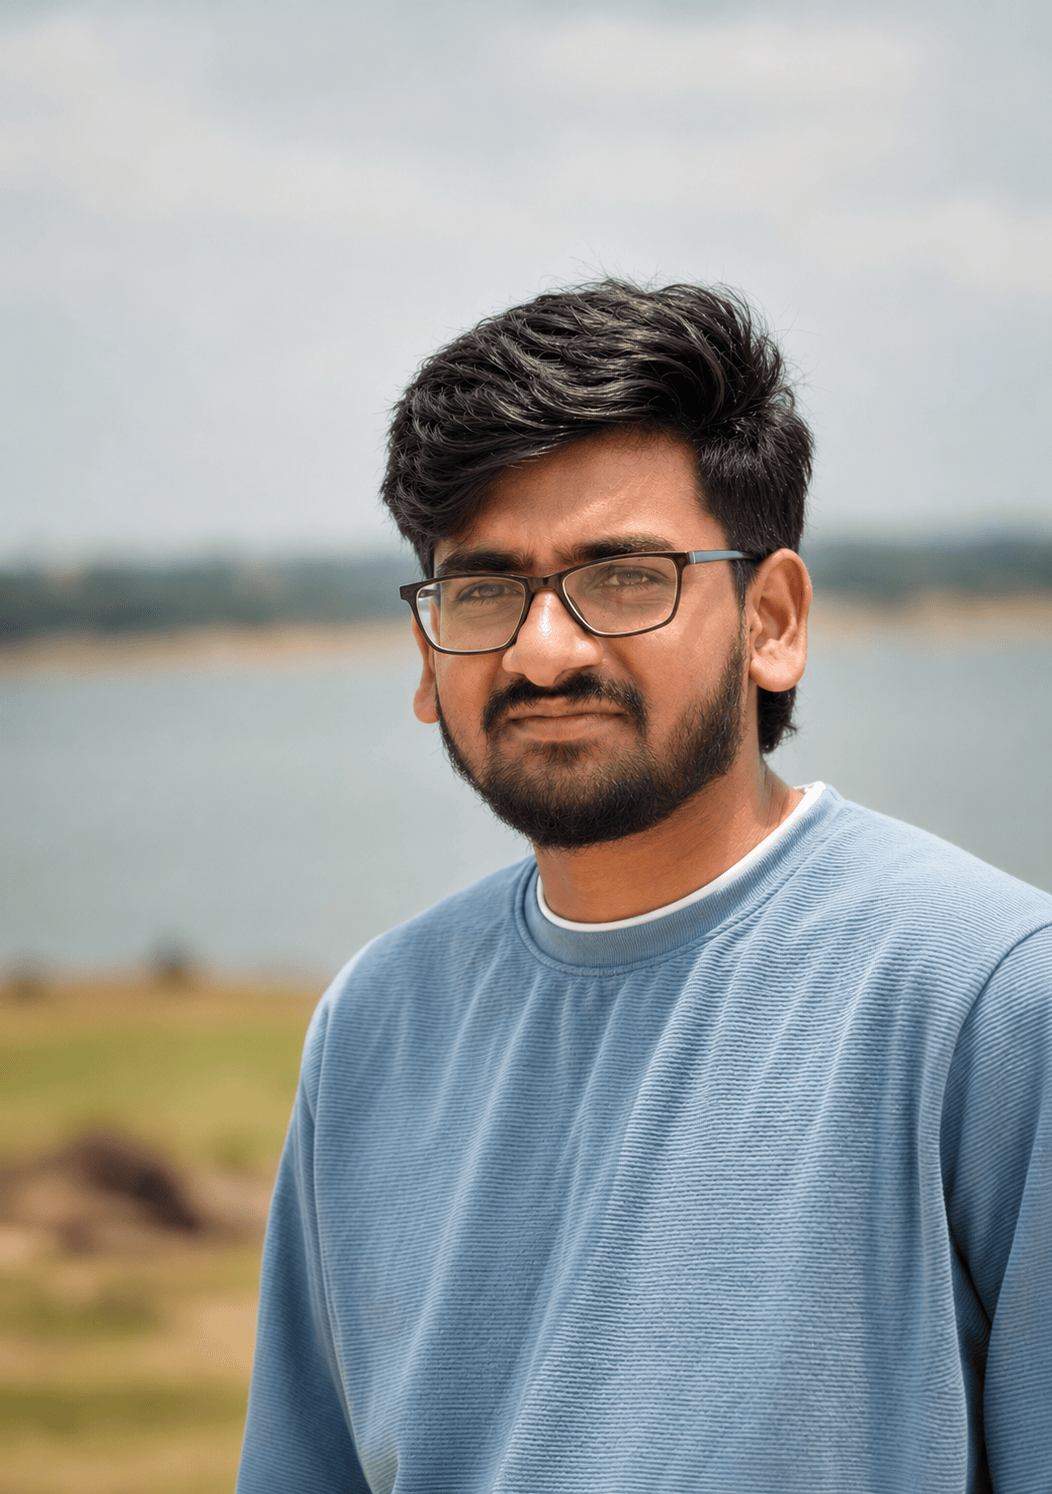
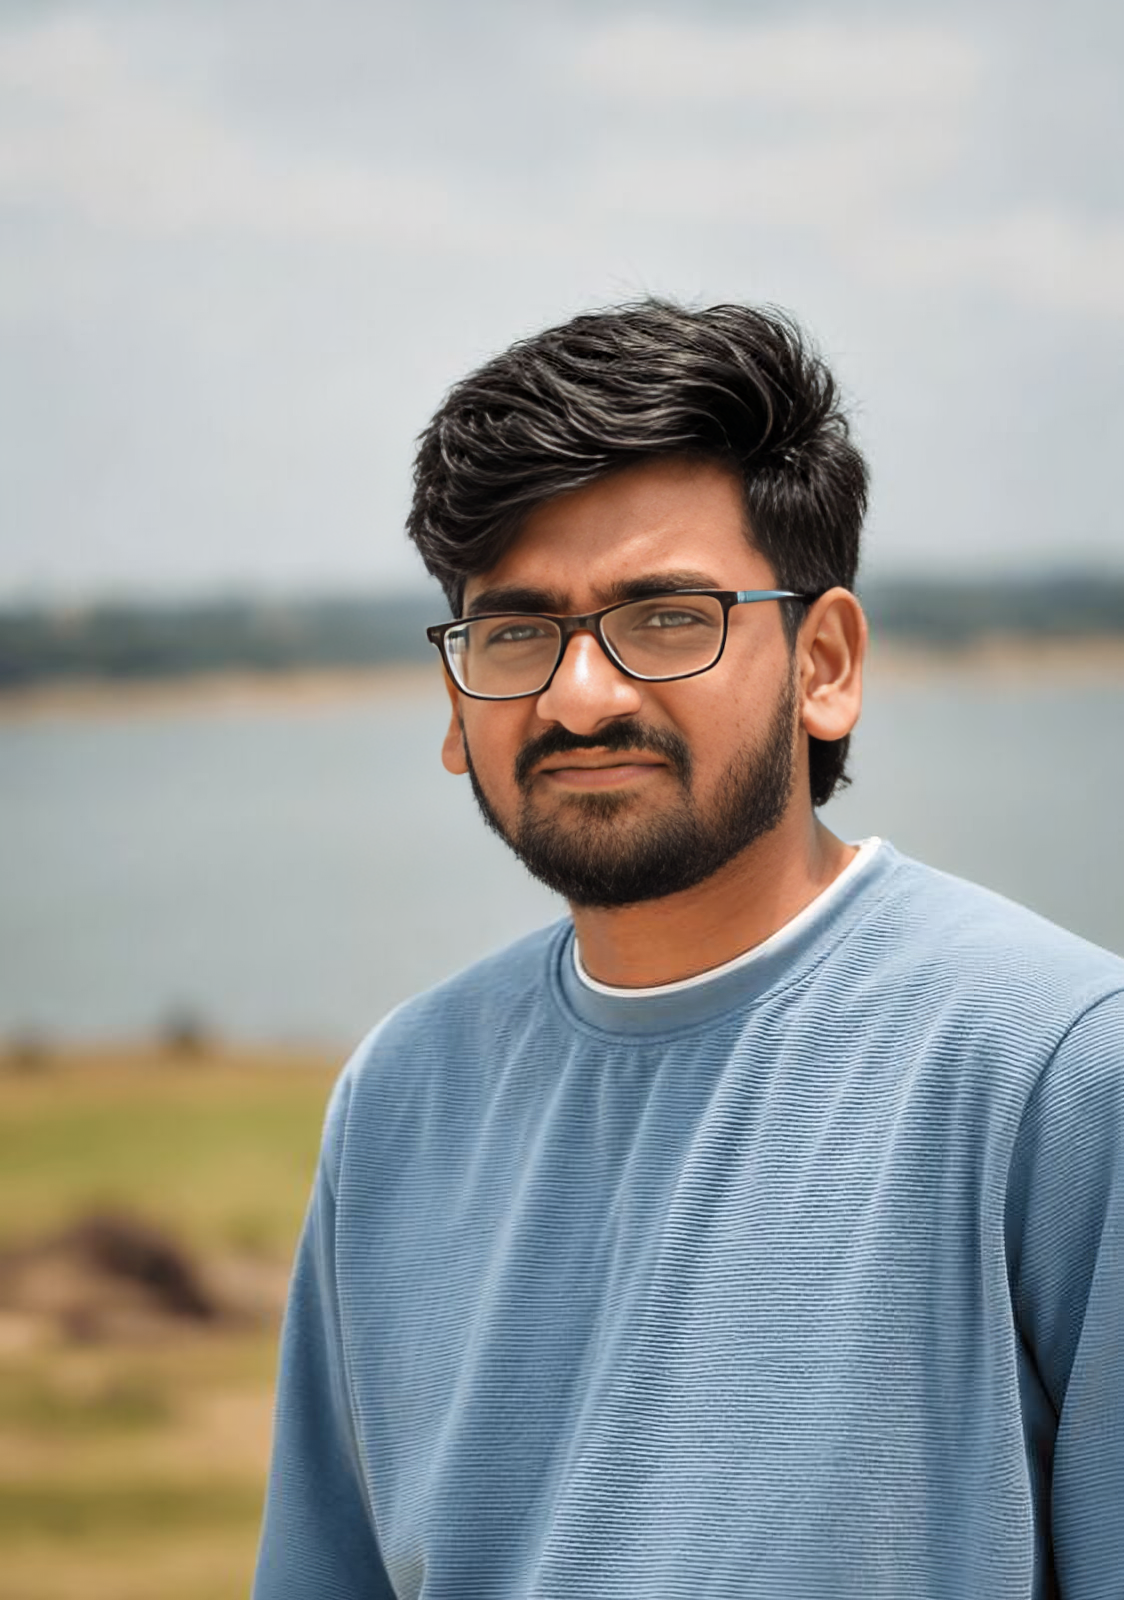
feat(experience): add Kridtech Corp (Vaniger) Founding SDE internship & update profile

diff --git a/src/app/about/page.tsx b/src/app/about/page.tsx
@@ -277,15 +277,23 @@ export default function AboutPage() {
                         {/* Timeline / Achievements */}
                         <section style={{ marginBottom: 20 }}>
                             <h2 style={{ fontSize: 20, fontWeight: 800, color: "var(--fg)", marginBottom: 16, fontFamily: "'Inter', sans-serif" }}>
-                                Achievements & History
+                                Experience & Milestones
                             </h2>
                             <div style={{ display: "flex", flexDirection: "column", gap: 16 }}>
+                                <div style={{ display: "flex", justifyContent: "space-between", gap: 12 }}>
+                                    <div>
+                                        <strong style={{ display: "block", fontSize: 15 }}>Software Engineering & DevOps Intern — Founding SDE & DevOps Intern</strong>
+                                        <p style={{ fontSize: 13, color: "var(--accent)", margin: "2px 0 4px 0", fontFamily: "monospace" }}>Kridtech Corp. | July 2026 – October 2026</p>
+                                        <span style={{ fontSize: 14, color: "var(--muted)" }}>Architected browser-native WebRTC calling via Telnyx SIP bridge, Frontier live AI coaching with Deepgram Nova-2 streaming & real-time objection handling, dynamic inbound routing with presence sync, atomic PostgreSQL billing ledger, and automated CI/CD pipelines deploying to Linux VM (PM2/Nginx) and Vercel.</span>
+                                    </div>
+                                    <span style={{ fontSize: 13, fontFamily: "monospace", color: "var(--accent)", flexShrink: 0 }}>Jul – Oct 2026</span>
+                                </div>
                                 <div style={{ display: "flex", justifyContent: "space-between", gap: 12 }}>
                                     <div>
                                         <strong style={{ display: "block", fontSize: 15 }}>1st Place — Model Context Protocol (MCP) Server Hackathon</strong>
                                         <span style={{ fontSize: 14, color: "var(--muted)" }}>Developed custom integrations and advanced protocol servers</span>
                                     </div>
-                                    <span style={{ fontSize: 13, fontFamily: "monospace", color: "var(--accent)", flexShrink: 0 }}>2026</span>
+                                    <span style={{ fontSize: 13, fontFamily: "monospace", color: "var(--accent)", flexShrink: 0 }}>Apr 2026</span>
                                 </div>
                                 <div style={{ display: "flex", justifyContent: "space-between", gap: 12 }}>
                                     <div>

diff --git a/src/components/Achievements.tsx b/src/components/Achievements.tsx
@@ -6,6 +6,16 @@ import { Trophy, Briefcase } from "lucide-react";
 
 const ITEMS = [
     {
+        type: "experience",
+        Icon: Briefcase,
+        badge: "FOUNDING SDE",
+        title: "Software Engineering & DevOps Intern — Founding SDE & DevOps Intern",
+        org: "Kridtech Corp. | July 2026 – October 2026",
+        desc: "Founding SDE & DevOps Intern for Vaniger (production conversational sales & telephony platform). Architected browser-native WebRTC calling via Telnyx SIP bridge, Frontier live AI coaching with dual-channel Deepgram Nova-2 streaming & real-time objection handling, dynamic inbound routing with presence sync, atomic PostgreSQL billing ledger, and automated CI/CD pipelines deploying to Linux VM (PM2/Nginx) and Vercel.",
+        tags: ["WebRTC", "Telnyx", "Deepgram", "Node.js", "PostgreSQL", "CI/CD", "Next.js"],
+        meta: "July 2026 – October 2026",
+    },
+    {
         type: "award",
         Icon: Trophy,
         badge: "1ST PLACE",

diff --git a/src/components/TerminalMode.tsx b/src/components/TerminalMode.tsx
@@ -430,6 +430,7 @@ Role: DevOps Engineer & System Architect
 Location: Mysuru, Karnataka, India
 
 [EXPERIENCE & ACHIEVEMENTS]
+▸ Software Engineering & DevOps Intern — Founding SDE & DevOps Intern @ Kridtech Corp.
 ▸ AI & Machine Learning Intern @ Artsy Technologies
 ▸ 1st Place - MCP-Based Systems Engineering Hackathon
 
